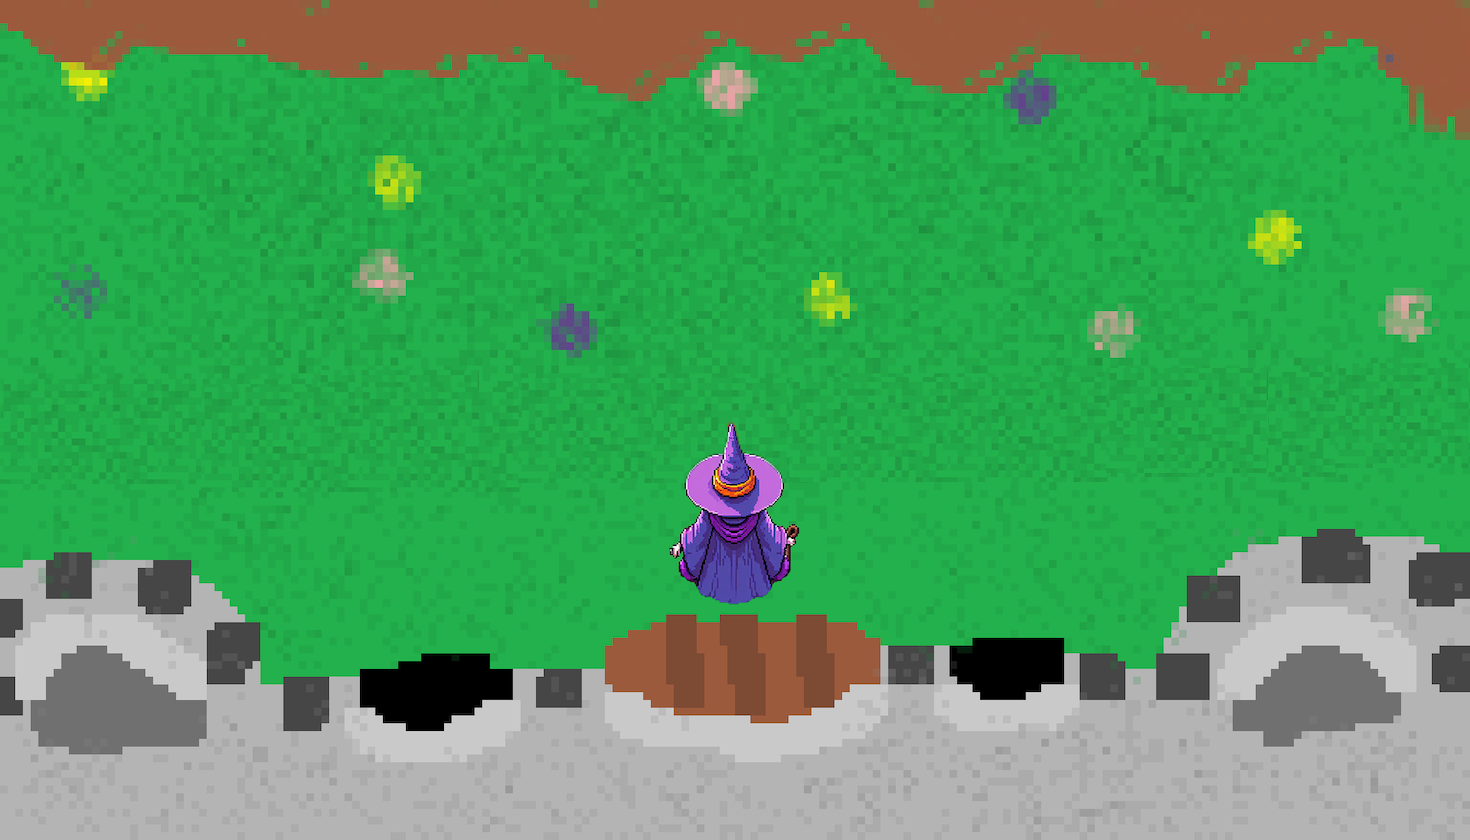
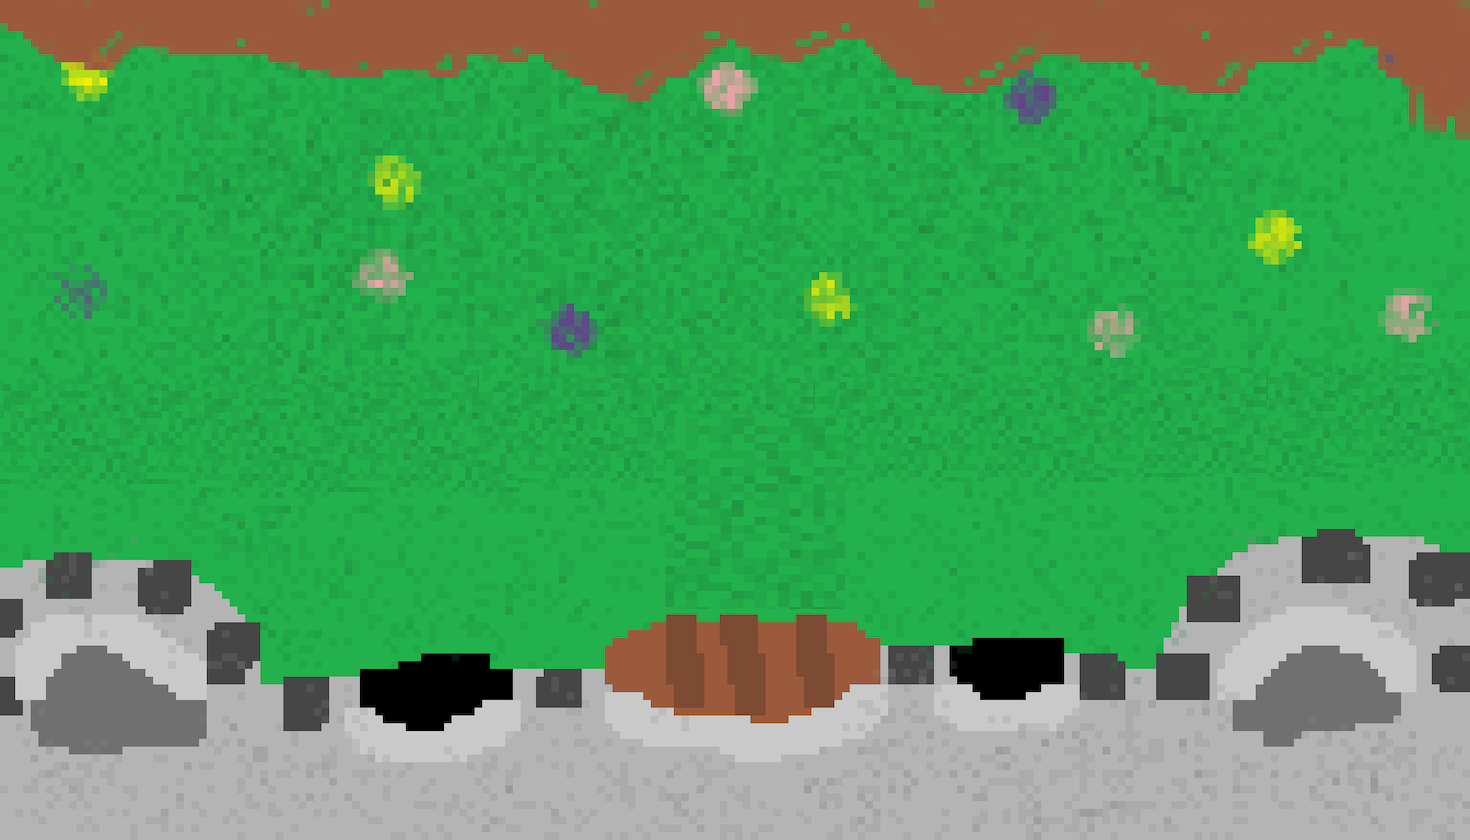
Add files via upload

Changed region(s): [[0.4592, 0.4952, 0.551, 0.7429]]

diff --git a/java.js b/java.js
@@ -1,48 +1,71 @@
-let goblin = document.querySelector('#goblin');
+const goblin = document.querySelector('#goblin');
+let wizard = document.querySelector(".wizard")
 
 const scoreBoard = document.querySelector("#score");
-
 let score = 100;
 
 let timeLeft = 70;
-
 const timerInterval = setInterval(updateTimer, 1000);
 
 const grunt = new Audio ('assets/grunt.mp3');
-
-const fire = new Audio ('assets/fireball.mp3');
-
-const wizardNoise = ["assets/fireball.mp3", "assets/huah.mp3", "assets/kablamo.mp3", "assets/hiyah.mp3", "assets/huzzah.mp3", "assets/lightning_bolt"]
-
+const wizardNoise = ["assets/fireball.mp3", "assets/huah.mp3", "assets/kablamo.mp3", "assets/hiyah.mp3", "assets/huzzah.mp3", "assets/lightning_bolt.mp3"]
+// randomizer van wizardgeluiden
 function wizardSound(){
   const audioIndex = Math.floor(Math.random() * wizardNoise.length);
   const audio = new Audio(wizardNoise[audioIndex]);
   audio.play();
 }
-
+// timer 
 function updateTimer() {
   document.getElementById('timer').innerText = timeLeft;
   timeLeft--;
-
   if (timeLeft < 0) {
     clearInterval(timerInterval);
     window.location.href = 'gameover.html';
   }
 }
-
-function hitGoblin(){
+// updaten van hp 
+function scoreGoblin(){
     score = score - 1;
     scoreBoard.textContent = score;
-    goblin.style.left = Math.floor(Math.random() * 1200) + "px"
-    goblin.style.top = Math.floor(Math.random() * 300) + "px"
-    grunt.play()
-    wizardSound()
     if (score <= 0) {
       window.location.href = 'win.html';
     }
-
+    if (score <= 60) {
+      goblin.src = 'assets/goblinhurt1.png'
+    }
+    if (score <= 20) {
+      goblin.src = 'assets/goblinhurt2.png'
+    }
+}
+// Wizard animatie
+function changeWiz() {
+  wizard.src = 'assets/wizard_cast.png'
+  setTimeout(() => {
+    wizard.src = 'assets/thewizard.png'
+  }, 300);
+}
+// verplaatsen van goblin over de map
+function tpGoblin() {
+  goblin.style.left = Math.floor(Math.random() * 1200) + "px"
+  goblin.style.top = Math.floor(Math.random() * 200) + "px"
+}
+// geluid bij klikken
+function hitAudio() {
+  grunt.play()
+  wizardSound()
 }
 
-goblin.addEventListener('click', hitGoblin);
+goblin.addEventListener('click', scoreGoblin);
 
+goblin.addEventListener('click', tpGoblin)
 
+goblin.addEventListener('click', hitAudio)
+
+goblin.addEventListener('click', changeWiz)
+
+// Bronnen gebruikt:
+// https://pngimg.com/image/83360
+// https://copilot.microsoft.com
+// https://www.youtube.com/watch?v=icU0IPfv_-o
+// https://www.youtube.com/watch?v=-9EF4gDvfto

diff --git a/game.html b/game.html
@@ -10,14 +10,16 @@
 <body>
     <audio src="assets/fightmusic.mp3" autoplay loop></audio>
     <div id="scoreboard">
-        <img src="assets/heart.png" alt="" class="heart">
-        <h1>HP</h1>
-         <h1 id="score"> 100</h1>
-        <div>
-            <p>Time Left: </p>
-            <p id="timer"> 70</p>
-        </div>
+        <img src="assets/heart.png" alt="heart" class="heart">
+        <p>Goblin king's HP:</p>
+         <p id="score"> 100</p>
     </div>
-        <img id="goblin" src="assets/goblinboss.png" alt="">
+    <div id="timerlook">
+        <p>Time Left: </p>
+        <p id="timer"> 70</p>
+    </div>
+    <img id="goblin" src="assets/goblinboss.png" alt="goblin boss">
+    <img class="wizard" src="assets/thewizard.png" alt="wizard">
 </body>
 </html>
+<!-- bronnen staan in javascript bestand -->

diff --git a/styles.css b/styles.css
@@ -22,20 +22,30 @@ body{
     padding-top: 10px;
 }
 
-div div p{
-    font-size: xx-large;
+.wizard{
+    position: absolute;
+    bottom: 190px;
+    width: 250px;
+    right: 610px;
 }
-div div{
+
+#scoreboard p{
+    font-size: xx-large;
+    color: azure;
+    margin-top: 17px;
+}
+#timerlook{
     padding: 10px;
+    font-size: xx-large;
     background-image: url(assets/buttontexture.png);
-    border-radius: 2em;
+    border-radius: 1em;
     position: absolute;
     bottom: 10px;
     display: flex;
     color: azure;
     align-items: center;
     justify-content: center;
-    right: 640px;
+    right: 630px;
 }
 
 #lives .heart.dead{

diff --git a/index.html b/index.html
@@ -13,3 +13,5 @@
     </div>
 </body>
 </html>
+
+<!-- bronnen staan in javascript bestand -->

diff --git a/gameover.html b/gameover.html
@@ -15,3 +15,4 @@
     </div>
 </body>
 </html>
+<!-- bronnen staan in javascript bestand -->

diff --git a/intro.html b/intro.html
@@ -15,3 +15,4 @@
     </div>
 </body>
 </html>
+<!-- bronnen staan in javascript bestand -->

diff --git a/win.html b/win.html
@@ -15,3 +15,4 @@
     </div>
 </body>
 </html>
+<!-- bronnen staan in javascript bestand -->
